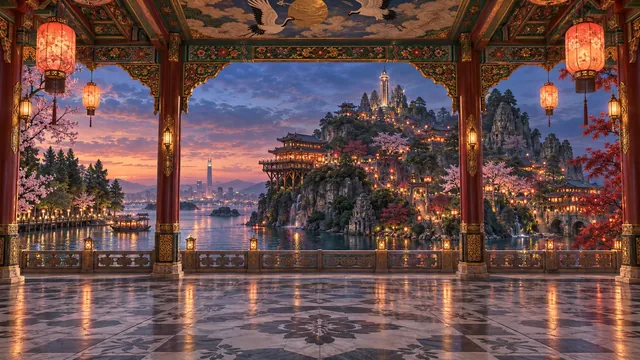
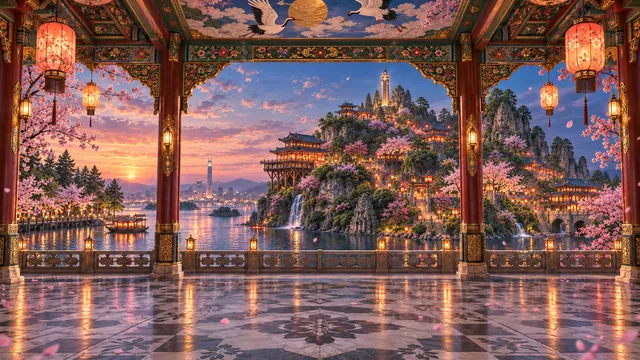
Split lanterns into seasonal images
Add seasonal lantern images (autumn/spring/summer/winter) under public/palais and public/palais/masks, remove the old combined lanterns.webp and masks/lanterns.webp, and update public/palais/map/lanterns.webp. Update src/palais/SeasonRoom.tsx to reflect the change (comment tweak and remove the explicit seasons:false on the lanterns entry) so the room uses the new per-season assets.

diff --git a/src/palais/SeasonRoom.tsx b/src/palais/SeasonRoom.tsx
@@ -26,8 +26,8 @@ const ROOMS: Record<Exclude<Place, "palace">, { file: string; focus: string; sea
   jacaranda: { file: "jacaranda", focus: "50% 55%", seasons: false, portrait: true },
   // the glass pavilion half under the sea, looking into the reef: one photograph for now
   reef: { file: "reef", focus: "50% 55%", seasons: false, portrait: true },
-  // the lacquered pavilion over the lantern-lit temple island at dusk: one photograph for now
-  lanterns: { file: "lanterns", focus: "50% 55%", seasons: false },
+  // the lacquered pavilion over the lantern-lit temple island at dusk
+  lanterns: { file: "lanterns", focus: "50% 55%" },
   // the white loggia over every beach at once, at sunset: one photograph for now
   shore: { file: "shore", focus: "50% 55%", seasons: false, portrait: true },
   // the glowworm grotto opening onto hobbit hills, a mountain and hot springs
